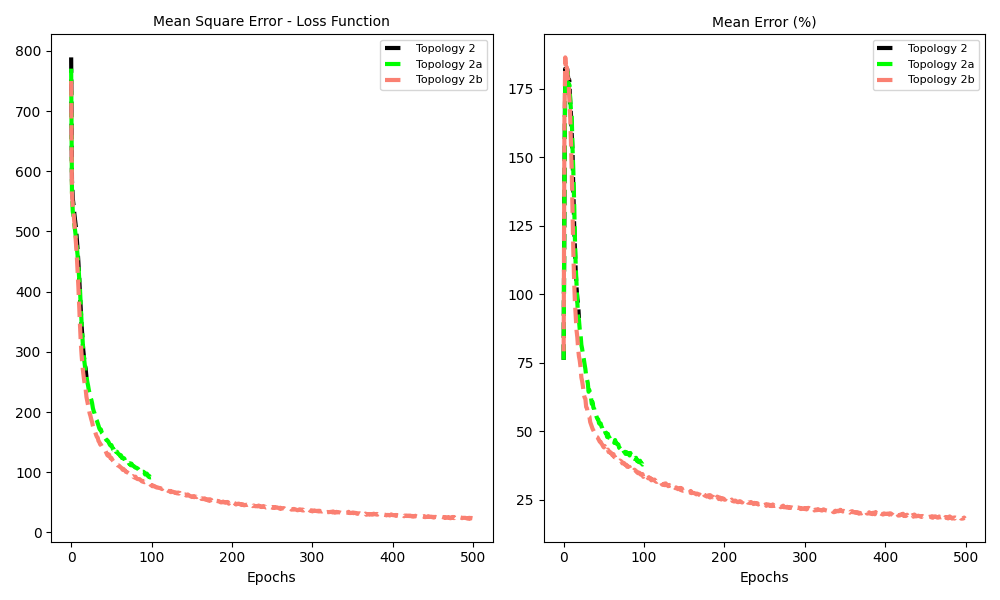
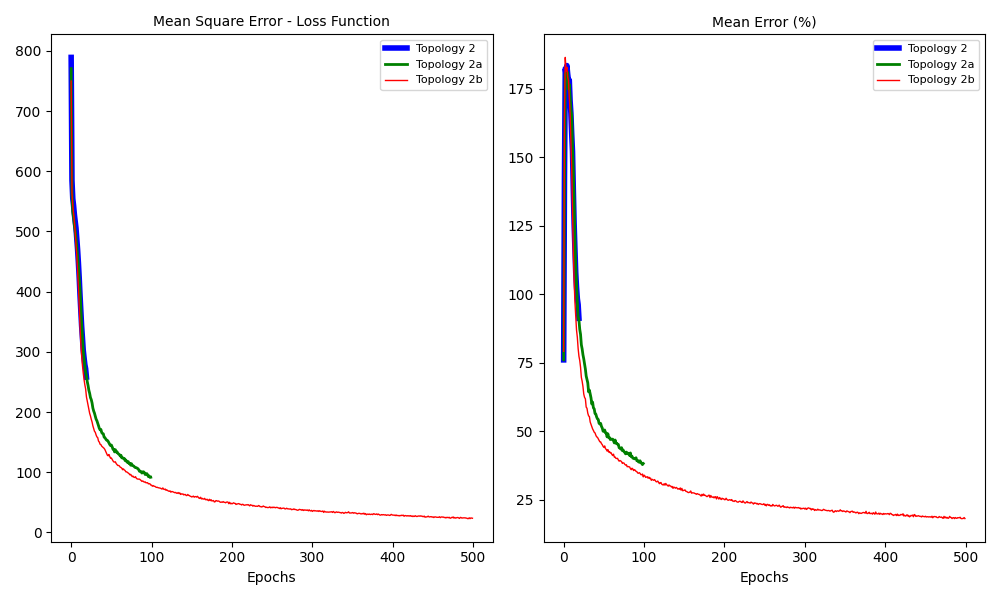
Updated main to save models

diff --git a/main.py b/main.py
@@ -20,7 +20,7 @@ from PreProcessing import *
 
 
 # Read Images and CSV into CNN Inputs; Features and Labels
-all_files = os.listdir("Images")
+all_files = os.listdir("/home/gmotta/CNN/Images/")
 all_files_noExt = [s[0:len(s)-4] for s in all_files]
 
 am5 = [s for s in all_files if "am5_" in s]
@@ -48,8 +48,8 @@ am8_c12x = [s for s in am8_c12 if "_x" in s]
 am8_c12y = [s for s in am8_c12 if "_y" in s]
 
 # change subset and change Model Configurations in Inputs.py
-subset = am8_c34
-caseID = 'Am8_c34'
+subset = am5_c12
+caseID = 'Am5_c12'
 #caseId = 'Train_ValSplit_15_'+caseID+'_Test_Same_TestGroupEval'
 
 imFiles, Porous, Perms, PMPerms = read_perm_data("Data/AMs_data.csv",delimiter=",", imlist = subset)
@@ -78,7 +78,7 @@ Dataframe = Dataframe.reindex(np.random.permutation(Dataframe.index))
 # ResultDataframe = pd.DataFrame(Dataframe[~mask])
 
 # Define Test Data
-X,y,Info = create_NN_data('Images',\
+X,y,Info = create_NN_data("/home/gmotta/CNN/Images/",\
                         Dataframe.Image_file.values,\
                         Dataframe['Keq/Kpm'].values,\
                         Extra=Dataframe['%Area'].values/100,\
@@ -130,10 +130,21 @@ X_test = np.array(X_test)
 y_test = np.array(y_test)
 X_train = np.array(X_train)
 y_train = np.array(y_train)
-# set early stopping
-es = EarlyStopping(monitor='loss', mode='min', verbose=1, patience=20)
-history = model.fit(x = X_train,y = y_train, batch_size = 10, epochs = 500, validation_split = 0.15, callbacks = [es,tensorboard,cp_callback])
 
+print('\nTraining model\n')
+# set early stopping
+#es = EarlyStopping(monitor='loss', mode='min', verbose=1, patience=20)
+history = model.fit(x = X_train,y = y_train, batch_size = 10, epochs = 20, validation_split = 0.15)#, callbacks = [tensorboard])
+
+# Save model
+print('\nSaving model\n')
+save_path = '/home/gmotta/CNN/vCNN/SavedModels/'+modelName+'/'
+model.save(save_path+'model.h5')
+print('\nSaved model\n')
+
+# Save the weights
+#model.save_weights('/home/gmotta/CNN/vCNN/Model/Checkpoints/'+modelName+'/')
+'''
 # predict train
 y_trainPred = model.predict(x = X_train)
 print('\nPredicted Train Data\n')
@@ -157,23 +168,14 @@ TopologyDataframe['Keq/Kpm_est'] = y_testPred
 TopologyDataframe['Error (%)'] = 100*abs(TopologyDataframe['Keq/Kpm_est']-TopologyDataframe['Keq/Kpm_teo'])/TopologyDataframe['Keq/Kpm_teo']
 # Export to csv
 TopologyDataframe.to_csv('./vCNN/Topologies/Test/'+caseID+'_'+model_top+'.csv',sep=';')
-
+'''
 # Convert the history.history dict to a pandas DataFrame 
 hist_df = pd.DataFrame(history.history)
 # Save to csv
-with open('./vCNN/History/'+modelName+'_Hist.csv', mode='w') as f:
+with open('/home/gmotta/CNN/vCNN/History/'+modelName+'_Hist.csv', mode='w') as f:
     hist_df.to_csv(f, index=False)
 
 print(' ')
 print('Case Topology: %s' % model_top)
 print('Case Batch: %s' % caseID)
-print("Total time = %g [s]\n" % end_time)
-
-'''
-print('')
-for i in range(0,len(y_Predicted)):
-    print('{:.4f} , {:.4f} , {:.2f}, {:.2f}%'.format(\
-        y_Predicted[i][0],y_test[i],100*np.abs(y_Predicted[i][0]-y_test[i])/max(y_test),100*np.abs(y_Predicted[i][0]-y_test[i])/y_test[i]))
-
-model_eval = "print('Model evaluation ',model.evaluate(X_test,y_test)) > ./Results/" + caseId +".txt"
-'''
+#print("Total time = %g [s]\n" % end_time)

diff --git a/PostProcessing2.py b/PostProcessing2.py
@@ -9,8 +9,9 @@ import os
 from Inputs import modelName, batchName, threshName, topologyName
 
 # read History csv
+lwidth = [4,2,1]
 sensitivity = ['','a','b']
-colors = ['black','lime','salmon']
+colors = ['blue','green','red']
 # data visualization
 fig1, ax1 = plt.subplots(nrows = 1, ncols = 2, sharex=False, sharey=False, figsize = (10,6))
 ax1[0].set_title('Mean Square Error - Loss Function', fontsize = 10)
@@ -29,12 +30,12 @@ for i in range(0,len(sensitivity)):
                         width = 1.0
 
                 ax1[0].plot(HistoryDataframe['loss'], label='Topology '+topologyName+sensitivity[i],
-                        color = colors[i], linestyle = '--', linewidth = 3.0)
+                        color = colors[i], linestyle = '-', linewidth = lwidth[i])
                 
                 ax1[0].legend(loc = "best", fontsize = 8)
                 
                 ax1[1].plot(HistoryDataframe['mean_Error'], label='Topology '+topologyName+sensitivity[i],
-                        color = colors[i], linestyle = '--', linewidth = 3.0)
+                        color = colors[i], linestyle = '-', linewidth = lwidth[i])
                 
                 ax1[1].legend(loc = "best", fontsize = 8)
         else:
@@ -48,7 +49,7 @@ fig2, ax2 = plt.subplots(nrows = 1, ncols = 1, sharex=False, sharey=False, figsi
 caseID = 'Am8_c34'
 model_top = 'Topology 2' # 2B
 # read test csv
-TopologyFilename = './vCNN/Topologies/Train/'+caseID+'_'+model_top+'.csv'
+TopologyFilename = './vCNN/Topologies/Train/'+caseID+'_'+model_top+'B.csv'
 if os.path.exists(TopologyFilename):
         # convert csv to df
         TopologyDataframe = pd.read_csv(TopologyFilename,sep=';')
@@ -76,7 +77,7 @@ if os.path.exists(TopologyFilename):
 else:
         pass
 # read test csv
-TestTopologyFilename = './vCNN/Topologies/Test/'+caseID+'_'+model_top+'.csv'
+TestTopologyFilename = './vCNN/Topologies/Test/'+caseID+'_'+model_top+'B.csv'
 if os.path.exists(TestTopologyFilename):
 # convert csv to df
         TestTopologyDataframe = pd.read_csv(TestTopologyFilename,sep=';')

diff --git a/PreProcessing.py b/PreProcessing.py
@@ -151,7 +151,8 @@ def create_NN_data(ImDIR,imFiles,Target,Extra=[],imgSize=200,fileExtension='.tif
     training_data = []
 
     for i in range(0,len(imFiles)):
-        imgArray = cv2.imread(os.path.join(ImDIR,imFiles[i]),cv2.IMREAD_GRAYSCALE)
+        #imgArray = cv2.imread(ImDIR+imFiles[i],cv2.IMREAD_GRAYSCALE) # Linux
+        imgArray = cv2.imread(os.path.join(ImDIR,imFiles[i]),cv2.IMREAD_GRAYSCALE) # Windows
         # plt.imshow(imgArray,cmap='gray')
         # plt.show()
         reducArray = cv2.resize(imgArray,(imgSize,imgSize))
@@ -178,11 +179,11 @@ def create_NN_data(ImDIR,imFiles,Target,Extra=[],imgSize=200,fileExtension='.tif
     return X, y, Info
 
 # Saving Paths
-checkpoint_path = './vCNN/Model/'+modelName+'.ckpt'
+checkpoint_path = '/home/gmotta/CNN/vCNN/Model/'+modelName+'.ckpt'
 checkpoint_dir = os.path.dirname(checkpoint_path)
 
 # Callback definitions
-log_dir = './vCNN/logs/{}'.format(modelName) # Linux
+log_dir = '/home/gmotta/CNN/vCNN/logs/{}'.format(modelName) # Linux
 #log_dir = os.path.join('logs',format(modelName),'') # Windows
 tensorboard = TensorBoard(log_dir)
 cp_callback = ModelCheckpoint(checkpoint_path,save_weights_on=True,verbose=1)

diff --git a/Inputs.py b/Inputs.py
@@ -9,8 +9,8 @@ learning_rate = 0.000001
 imgSize=300
 
 # model name configuration
-batchName = '8'
-threshName = '_34_'
+batchName = '5'
+threshName = '_12_'
 topologyName = '2'
-topologySensitivity = 'b'
+topologySensitivity = ''
 modelName = "CNNPerm_"+batchName+threshName+topologyName+topologySensitivity
